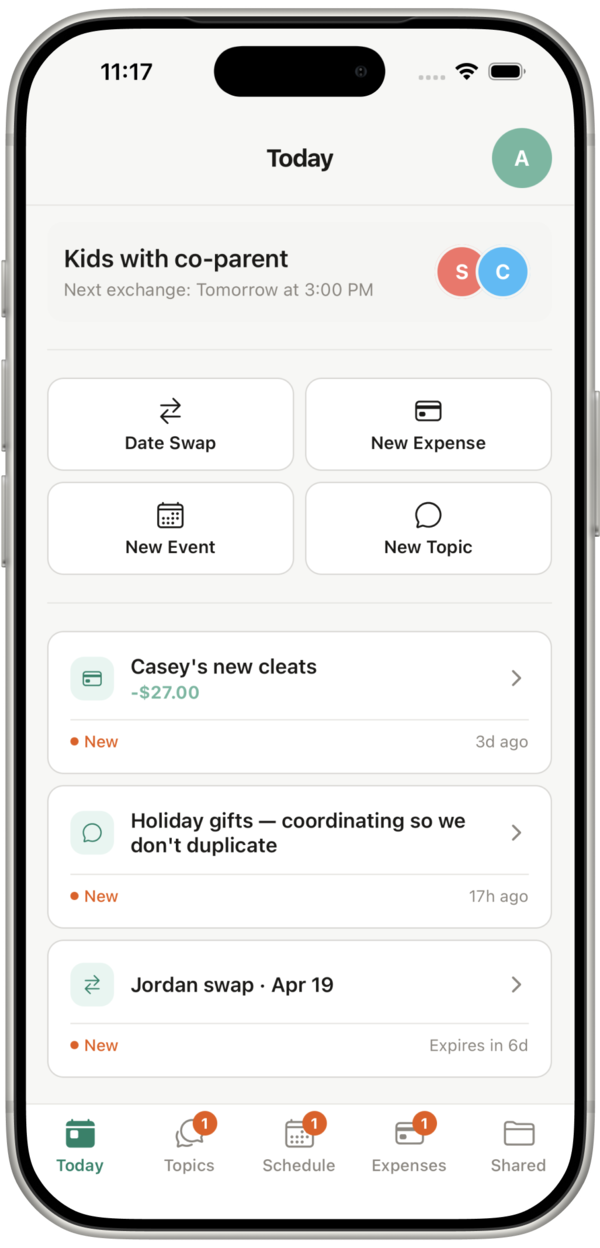
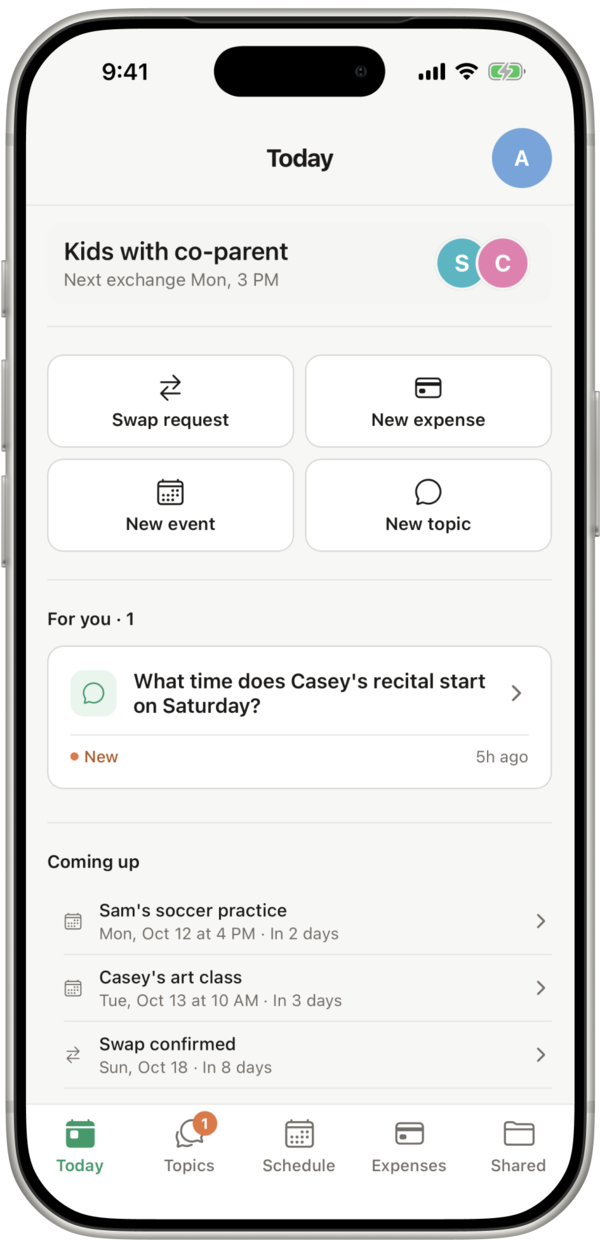
Homepage hero: new Today screenshot with Coming up; callouts re-aimed

diff --git a/index.html b/index.html
@@ -278,8 +278,8 @@
         left: calc(50% - var(--pw) / 2 + var(--x) * var(--pw)); width: calc((1 - var(--x)) * var(--pw) + 14px);
         transition: opacity .5s var(--ease); transition-delay: calc(1.3s + var(--n) * .25s);
       }
-      /* On phones, the expense callout points at the expense's icon, so its line doesn't cross out the amount */
-      .callout.is-left { --x: .148 !important; --y: .541 !important; }
+      /* On phones, the topic callout points at the topic's icon from the left margin, so its line doesn't cross out the question */
+      .callout.is-left { --x: .157 !important; --y: .555 !important; }
       .callout.is-left .line { left: calc(50% - var(--pw) / 2 - 14px); width: calc(var(--x) * var(--pw) + 14px); }
       .home-hero.is-in .callout .line { opacity: 1; transform: none; }
       .callout .line::after {
@@ -367,11 +367,11 @@
       <div class="diagram">
         <div class="shot">
           <div class="phone"><picture><source srcset="/images/home/today.webp" type="image/webp"><img src="/images/home/today.png" alt="The Today screen in Clearly" width="600" height="1248" fetchpriority="high"></picture></div>
-          <div class="callout" style="--x:.80; --y:.218; --n:0"><i class="dot"></i><i class="line"></i><div class="txt"><strong>Who has the kids</strong><span>And when the next hand-off is.</span></div></div>
-          <div class="callout" style="--x:.922; --y:.381; --n:1"><i class="dot"></i><i class="line"></i><div class="txt"><strong>One tap to start</strong><span>Swap a weekend. Log an expense. Raise a topic.</span></div></div>
-          <div class="callout is-left" style="--x:.36; --y:.555; --n:2"><i class="dot"></i><i class="line"></i><div class="txt"><strong>Expenses, split for you</strong><span>The math is done. The awkward part, too.</span></div></div>
-          <div class="callout" style="--x:.80; --y:.668; --n:3"><i class="dot"></i><i class="line"></i><div class="txt"><strong>Topics that end</strong><span>Every one of them. On purpose.</span></div></div>
-          <div class="callout" style="--x:.905; --y:.838; --n:4"><i class="dot"></i><i class="line"></i><div class="txt"><strong>Swap requests</strong><span>Trade a day without the back-and-forth.</span></div></div>
+          <div class="callout" style="--x:.80; --y:.21; --n:0"><i class="dot"></i><i class="line"></i><div class="txt"><strong>Who has the kids</strong><span>And when the next hand-off is.</span></div></div>
+          <div class="callout" style="--x:.918; --y:.363; --n:1"><i class="dot"></i><i class="line"></i><div class="txt"><strong>One tap to start</strong><span>Swap a weekend. Log an expense. Raise a topic.</span></div></div>
+          <div class="callout is-left" style="--x:.862; --y:.555; --n:2"><i class="dot"></i><i class="line"></i><div class="txt"><strong>Topics that end</strong><span>Every one of them. On purpose.</span></div></div>
+          <div class="callout" style="--x:.25; --y:.69; --n:3"><i class="dot"></i><i class="line"></i><div class="txt"><strong>What&#x27;s coming up</strong><span>Practices, classes and swaps, in one list.</span></div></div>
+          <div class="callout" style="--x:.90; --y:.845; --n:4"><i class="dot"></i><i class="line"></i><div class="txt"><strong>Swap requests</strong><span>Trade a day without the back-and-forth.</span></div></div>
         </div>
       </div>
     </div>
